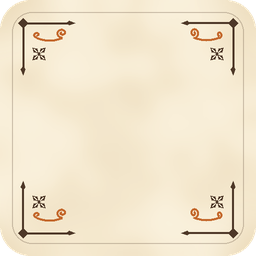
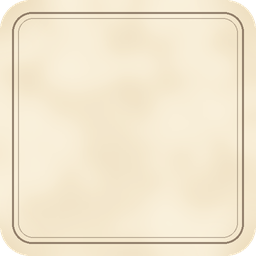
Back to the double ink rule round the parchment, without corner ornaments

Changed region(s): [[0.0312, 0.0312, 0.9688, 0.9688], [0.7188, 0.75, 0.875, 0.875], [0.125, 0.75, 0.2812, 0.875]]

diff --git a/tools/make_ui_art.py b/tools/make_ui_art.py
@@ -74,67 +74,6 @@ def leaf(d, x, y, sx, sy, ang, size):
     d.polygon([(x, y), (mid[0] + nx, mid[1] + ny), tip, (mid[0] - nx, mid[1] - ny)], fill=MOSS + (255,), outline=INK + (255,))
 
 
-RUST = (196, 104, 44)
-
-
-def lance(d, x, y, dx, dy, size, col):
-    """A small lance tip pointing (dx, dy)."""
-    nx, ny = -dy, dx
-    d.polygon([(x + dx * size, y + dy * size), (x + nx * size * 0.35, y + ny * size * 0.35),
-               (x - dx * size * 0.5, y - dy * size * 0.5), (x - nx * size * 0.35, y - ny * size * 0.35)], fill=col)
-
-
-def quatrefoil(d, x, y, r, col, width, back):
-    """A four-petalled flower: four filled pointed petals, each with a light
-    vein, round a small eye."""
-    for k in range(4):
-        a = k * math.pi / 2 + math.pi / 4
-        ca, sa = math.cos(a), math.sin(a)
-        tip = (x + ca * r, y + sa * r)
-        mid = (x + ca * r * 0.55, y + sa * r * 0.55)
-        side = (-sa * r * 0.3, ca * r * 0.3)
-        d.polygon([(x + ca * r * 0.12, y + sa * r * 0.12), (mid[0] + side[0], mid[1] + side[1]), tip, (mid[0] - side[0], mid[1] - side[1])], fill=col)
-        d.line([(x + ca * r * 0.3, y + sa * r * 0.3), (x + ca * r * 0.72, y + sa * r * 0.72)], fill=back, width=max(1, width // 2))
-    d.ellipse([x - r * 0.16, y - r * 0.16, x + r * 0.16, y + r * 0.16], fill=col)
-
-
-def spiral(x, y, r0, turns, sx, sy, start):
-    """Points of a spiral winding inward from radius r0."""
-    pts = []
-    n = int(90 * turns)
-    for k in range(n + 1):
-        t = k / n
-        a = start + sx * sy * t * turns * 2 * math.pi
-        r = r0 * (1.0 - t * 0.85)
-        pts.append((x + math.cos(a) * r, y + math.sin(a) * r))
-    return pts
-
-
-def scroll(d, x, y, sx, size, col, width):
-    """A tendril along the edge ending in a curl, like a fiddlehead."""
-    end = (x + sx * size * 1.3, y)
-    stem = [(x - sx * size * 1.2 + sx * t * size * 2.5 / 60, y + math.sin(t / 60 * math.pi) * size * 0.25) for t in range(61)]
-    d.line(stem, fill=col, width=width, joint="curve")
-    cx, cy = stem[-1][0], stem[-1][1] - size * 0.5
-    d.line(spiral(cx, cy, size * 0.5, 1.4, sx, 1, math.pi / 2), fill=col, width=width, joint="curve")
-    d.line(spiral(stem[0][0], stem[0][1] - size * 0.32, size * 0.32, 1.1, -sx, -1, math.pi / 2), fill=col, width=width, joint="curve")
-
-
-def corner(d, cx, cy, sx, sy, scale, ink):
-    """One corner: a bracket of fine rule with a diamond where it turns and
-    lance tips at its ends, a rust scroll and a little flower inside it."""
-    w = max(1, int(2 * scale))
-    reach = 46 * scale
-    d.line([(cx, cy), (cx + sx * reach, cy)], fill=ink, width=w)
-    d.line([(cx, cy), (cx, cy + sy * reach)], fill=ink, width=w)
-    s = 5 * scale
-    d.polygon([(cx - s, cy), (cx, cy - s), (cx + s, cy), (cx, cy + s)], fill=ink)
-    lance(d, cx + sx * reach, cy, sx, 0, 6 * scale, ink)
-    lance(d, cx, cy + sy * reach, 0, sy, 6 * scale, ink)
-    scroll(d, cx + sx * 26 * scale, cy + sy * 15 * scale, sx, 10 * scale, RUST + (255,), w)
-    quatrefoil(d, cx + sx * 16 * scale, cy + sy * 31 * scale, 9 * scale, ink, w, PARCH + (255,))
-
-
 def panel(name, size, seed, corner_curls=True, radius=30):
     w = h = size * S
     img = parchment(w, h, seed, radius=radius)
@@ -142,12 +81,13 @@ def panel(name, size, seed, corner_curls=True, radius=30):
     d = ImageDraw.Draw(ink)
     m = 12 * S
     # a double rule, the inner one finer
-    d.rounded_rectangle([m, m, w - 1 - m, h - 1 - m], radius=(radius - 10) * S, outline=INK + (70,), width=1 * S)
+    d.rounded_rectangle([m, m, w - 1 - m, h - 1 - m], radius=(radius - 10) * S, outline=INK + (150,), width=2 * S)
     m2 = m + 6 * S
+    d.rounded_rectangle([m2, m2, w - 1 - m2, h - 1 - m2], radius=(radius - 15) * S, outline=INK + (90,), width=1 * S)
     if corner_curls:
         c = m2 + 5 * S
         for sx, sy, cx, cy in ((1, 1, c, c), (-1, 1, w - c, c), (1, -1, c, h - c), (-1, -1, w - c, h - c)):
-            corner(d, cx, cy, sx, sy, S, INK + (255,))
+            curl(d, cx, cy, sx, sy, S * 0.55, 2 * S)
     img.alpha_composite(ink)
     img = img.resize((size, size), Image.LANCZOS)
     img.save(os.path.join(OUT, name + ".png"))
@@ -186,8 +126,8 @@ def underline(name):
 
 if __name__ == "__main__":
     os.makedirs(OUT, exist_ok=True)
-    panel("panel", 256, 3)
-    panel("sheet", 256, 7)
+    panel("panel", 256, 3, corner_curls=False)
+    panel("sheet", 256, 7, corner_curls=False)
     label("chip", PARCH, INK, 11)
     label("chip_hover", (252, 245, 228), INK, 12, glow=True)
     label("chip_on", MOSS, (58, 76, 40), 13, glow=True)
